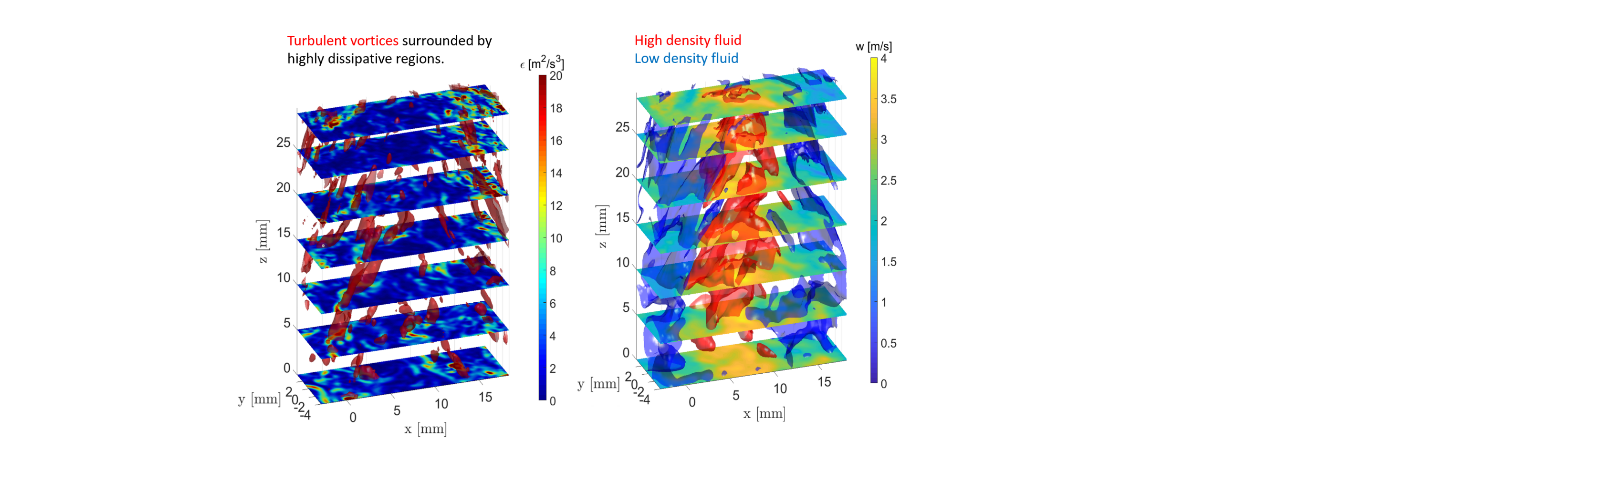
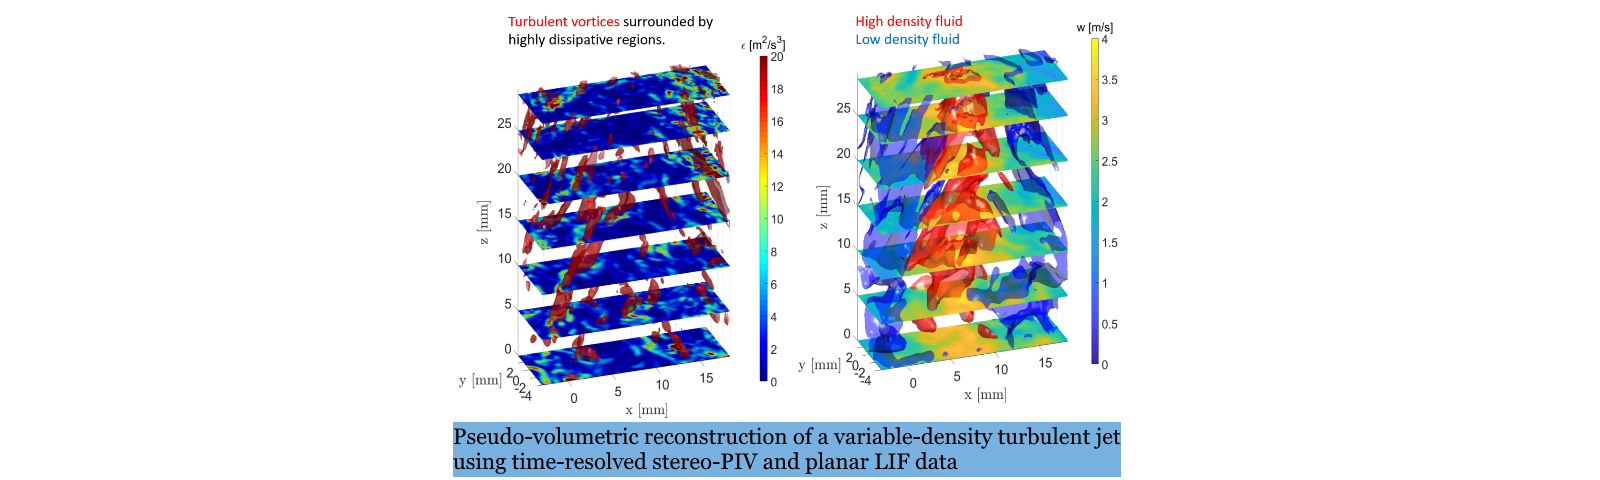
Initial commit

diff --git a/content/home/slider.md b/content/home/slider.md
@@ -36,7 +36,7 @@ height = "480px"
 
 [[item]]
   title = ""
-  content = "Pseudo-volumetric reconstruction of a variable-density turbulent jet using time-resolved stereo-PIV and planar LIF data"
+  content = ""
   align = "right"
 
   overlay_color = "#335161"  # An HTML color value.
